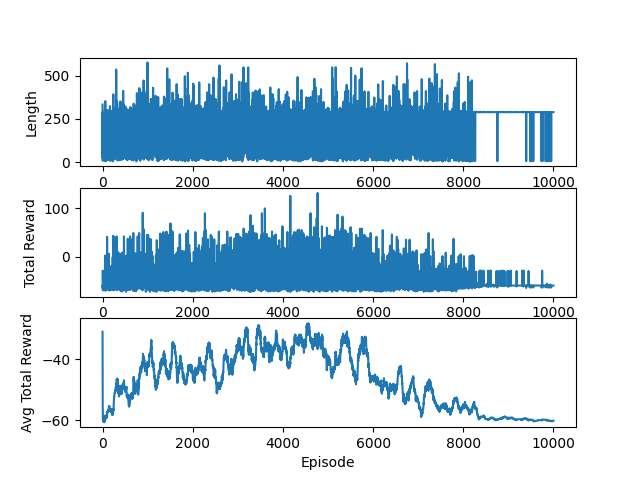
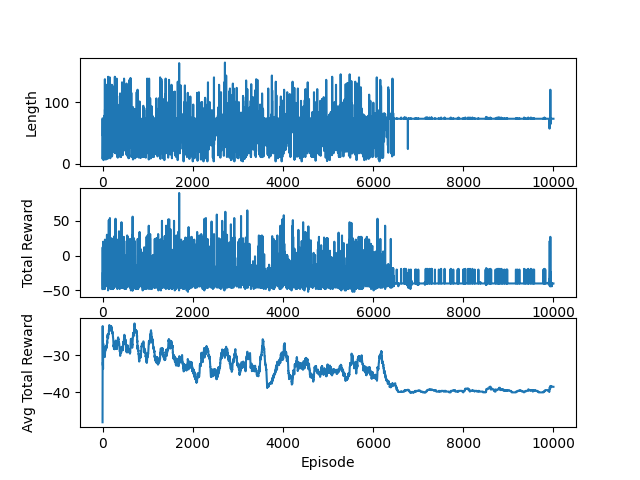
temp

diff --git a/snake_env.py b/snake_env.py
@@ -73,28 +73,28 @@ class SnakeEnv(gym.Env):
             # reward = - math.pow(self.max_growth, (self.grid_size - info["snake_size"]) / self.max_growth) # (-max_growth, -1)
             reward -= 20
             if self.hungry:
-                reward *= 0
+                reward *= 2
             else:
-                reward *= 3
+                reward *= 1
 
             return state, reward, self.done, info
 
         elif info["food_obtained"]:  # Food eaten. Reward boost on snake size.
             # reward = info["snake_size"] * 100 / self.grid_size
-            reward += 30
+            reward += 20
             self.reward_step_counter = 0  # Reset reward step counter
 
-        else:
-            # Give a tiny reward/penalty to the agent based on whether it is heading towards the food or not.
-            # Not competing with game over penalty or the food eaten reward.
-            if np.linalg.norm(info["snake_head_pos"] - info["food_pos"]) < np.linalg.norm(info["prev_snake_head_pos"] - info["food_pos"]):
-                # reward += 1 / info["snake_size"]
-                reward += 0.5
-            else:
-                reward -= 0.5
-                # reward -= 2 / info["snake_size"]
-            reward *= 2
-            # reward -= self.reward_step_counter * 0.005
+        # else:
+        #     # Give a tiny reward/penalty to the agent based on whether it is heading towards the food or not.
+        #     # Not competing with game over penalty or the food eaten reward.
+        #     if np.linalg.norm(info["snake_head_pos"] - info["food_pos"]) < np.linalg.norm(info["prev_snake_head_pos"] - info["food_pos"]):
+        #         # reward += 1 / info["snake_size"]
+        #         reward += 0.5
+        #     else:
+        #         reward -= 0.5
+        #         # reward -= 2 / info["snake_size"]
+        #     reward *= 2
+        #     # reward -= self.reward_step_counter * 0.005
 
         # max_score: 72 + 14.1 = 86.1
         # min_score: -14.1
@@ -170,6 +170,7 @@ class SnakeEnv(gym.Env):
             255, 50, len(self.game.snake), dtype=np.uint8)
         img = np.expand_dims(img, axis=2)
 
+        life = self.step_limit - self.reward_step_counter
         loc = [
             # Food location
             self.game.food[0] - self.game.snake[0][0],  # food left
@@ -182,7 +183,7 @@ class SnakeEnv(gym.Env):
             self.game.direction == "UP",    #蛇的面向(上)
             self.game.direction == "DOWN",  #蛇的面向(下)
 
-            self.reward_step_counter,
+            life,
         ]
         loc = np.array(loc)
 

diff --git a/snake_model.py b/snake_model.py
@@ -35,6 +35,8 @@ class SnakeCNN(torch.nn.Module):
         self.MIX_OUT = torch.nn.Sequential(collections.OrderedDict([
             ('f', torch.nn.Linear(256, numActions)),
         ]))
+
+        self.softmax=torch.nn.Softmax(dim=1)
         
 
     def forward(self, locs, imgs):
@@ -53,27 +55,24 @@ class SnakeCNN(torch.nn.Module):
 
         mix = self.MIX1(mix)    # B, 256
         mix = self.MIX_OUT(mix) # B, numActions
-        mix=self.softmax1(mix)
 
         return mix
 
-    def choose_action(self, s, returnLogpi=True):
+    def choose_action(self, locs, imgs, return_q_s=False):
         '''
         Sample an action at state s, using current policy
 
         Returns chosen action, and optionally the computed PG log pi term
         '''
-        pi_s = self.forward(s)
-        # print(pi_s)
-        prob_model = torch.distributions.Categorical(pi_s)
-        action = prob_model.sample()  # sample an action from current policy probabilities
-        # print(action)
-
-        if not returnLogpi:
-            return action.item()
+        q_s = self.forward(locs, imgs)
+        probs = self.softmax(q_s)
+        actions = torch.multinomial(probs, 1)
+        
+        if return_q_s:
+            return actions, q_s
         else:
-            log_pi = torch.log(pi_s[0][action])  # log pi
-            return (action.item(), log_pi)
+            return actions
+        
 
 
 if __name__ == "__main__":
@@ -101,8 +100,8 @@ if __name__ == "__main__":
             img_tensor = torch.tensor(img, dtype=torch.float).to(device).unsqueeze(0)
             
             # print(policy.choose_action(obs))
-            q_s = policy(loc_tensor, img_tensor)
-            action = torch.argmax(q_s[0])
+            actions, q_s = policy.choose_action(loc_tensor, img_tensor, return_q_s=True)
+            action = actions[0]
             (loc, img), reward, done, info = env.step(action)
             sum_reward += reward
             if np.absolute(reward) > 0.001:

diff --git a/train_cnn.py b/train_cnn.py
@@ -36,14 +36,12 @@ class EpsilonGreedyPolicy:
         self.greedy_prob = 1.0-self.epsilon+self.epsilon/self.num_actions
         self.rand_prob = self.epsilon/self.num_actions
 
-    def choose_action(self, q_s):
+    def choose_action(self, greedy_action):
         '''
         Given q_s=q(state), make epsilon-greedy action choice
         '''
         # create epsilon-greedy policy (at current state only) from q_s
         policy = [self.rand_prob]*self.num_actions
-        with torch.no_grad():
-            greedy_action = torch.argmax(q_s)
         policy[greedy_action] = self.greedy_prob
 
         # choose random action based on e-greedy policy
@@ -61,7 +59,7 @@ def main():
     showPlots = True
     from matplotlib import pyplot as plt
     
-    numActions = 3
+    numActions = 4
     obsSize = 12
     lr = 0.001
     gamma = 0.9
@@ -98,9 +96,7 @@ def main():
         replayBuffer=deque(maxlen=replay_size)
 
         for episode in range(NUM_EPISODES):
-            # if episode % 100 == 0:
-            #     print('Episode: {}'.format(episode+1))
-                
+
             loc, img = env.reset()
 
             egp.decay_epsilon(episode)
@@ -112,9 +108,9 @@ def main():
                 with torch.no_grad():
                     loc_tensor = torch.tensor(loc, dtype=torch.float).to(device).unsqueeze(0)
                     img_tensor = torch.tensor(img, dtype=torch.float).to(device).unsqueeze(0)
-                    q_s = policy_net(loc_tensor, img_tensor)
+                    action_probs = policy_net.choose_action(loc_tensor, img_tensor)
                     # action = torch.argmax(q_s[0])
-                    action = egp.choose_action(q_s[0])
+                    action = egp.choose_action(action_probs[0])
                     (next_loc, next_img), reward, done, info = env.step(action)
                 
                 # 2. Store experience in replay memory 經驗回放

diff --git a/test_cnn.py b/test_cnn.py
@@ -8,9 +8,9 @@ from snake_env import SnakeEnv
 
 
 def main():
-    DEBUG = True
+    DEBUG = False
     RENDER_DELAY = 0.2
-    numActions = 3
+    numActions = 4
     obsSize = 12
     folder_name = "MIX-3A"
     from matplotlib import pyplot as plt
@@ -21,7 +21,7 @@ def main():
     device = torch.device("cuda" if torch.cuda.is_available() else "cpu")
 
     policy_net=SnakeCNN(obsSize, numActions).to(device)
-    # policy.load_state_dict(torch.load(f"result/{folder_name}/weight/last.pt"))
+    # policy_net.load_state_dict(torch.load(f"result/{folder_name}/weight/last.pt"))
     policy_net.load_state_dict(torch.load(f"result/{folder_name}/weight/best.pt"))
     policy_net.eval()
 
